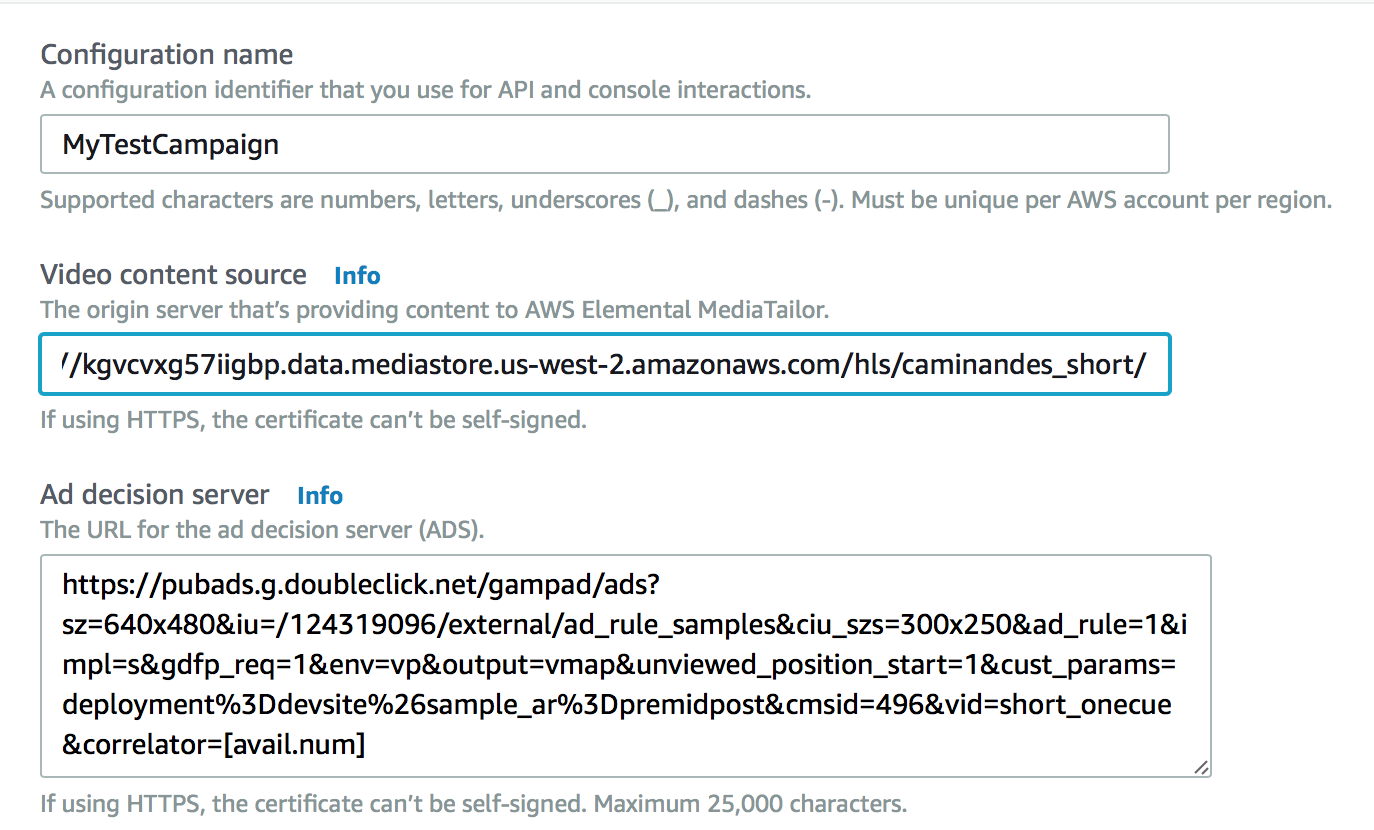
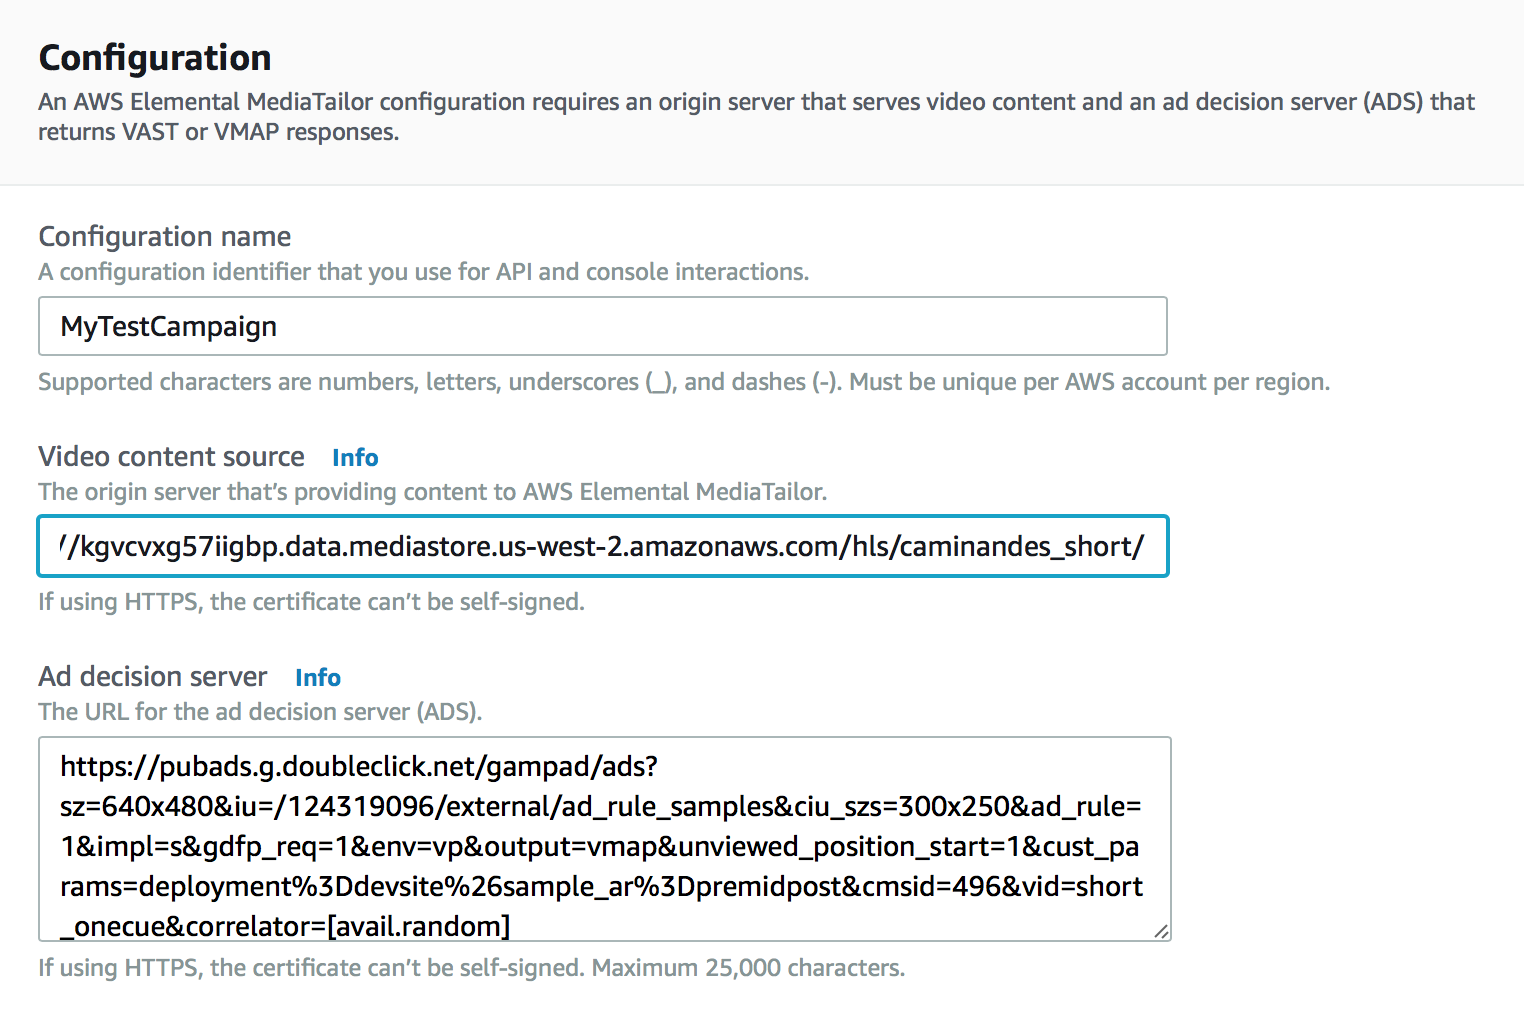
with correct correlator value this time

diff --git a/11-VODMediaTailor/README.md b/11-VODMediaTailor/README.md
@@ -27,7 +27,7 @@ This lab assumes that you have the following:
 
 1. For the **Video content source**, enter the MediaStore URL link to the asset Endpoint URL (https://kgvcvxg57iigbp.data.mediastore.us-west-2.amazonaws.com/hls/caminandes_short/master.m3u8) but  **_without the manifest filename_**. That is, **omit** master.m3u8.
 
-1. Enter `https://pubads.g.doubleclick.net/gampad/ads?sz=640x480&iu=/124319096/external/ad_rule_samples&ciu_szs=300x250&ad_rule=1&impl=s&gdfp_req=1&env=vp&output=vmap&unviewed_position_start=1&cust_params=deployment%3Ddevsite%26sample_ar%3Dpremidpost&cmsid=496&vid=short_onecue&correlator=[avail.num]` for the **Ad decision server**. 
+1. Enter `https://pubads.g.doubleclick.net/gampad/ads?sz=640x480&iu=/124319096/external/ad_rule_samples&ciu_szs=300x250&ad_rule=1&impl=s&gdfp_req=1&env=vp&output=vmap&unviewed_position_start=1&cust_params=deployment%3Ddevsite%26sample_ar%3Dpremidpost&cmsid=496&vid=short_onecue&correlator=[avail.random]` for the **Ad decision server**. 
 
 	![alt](emt_config.png)
 
